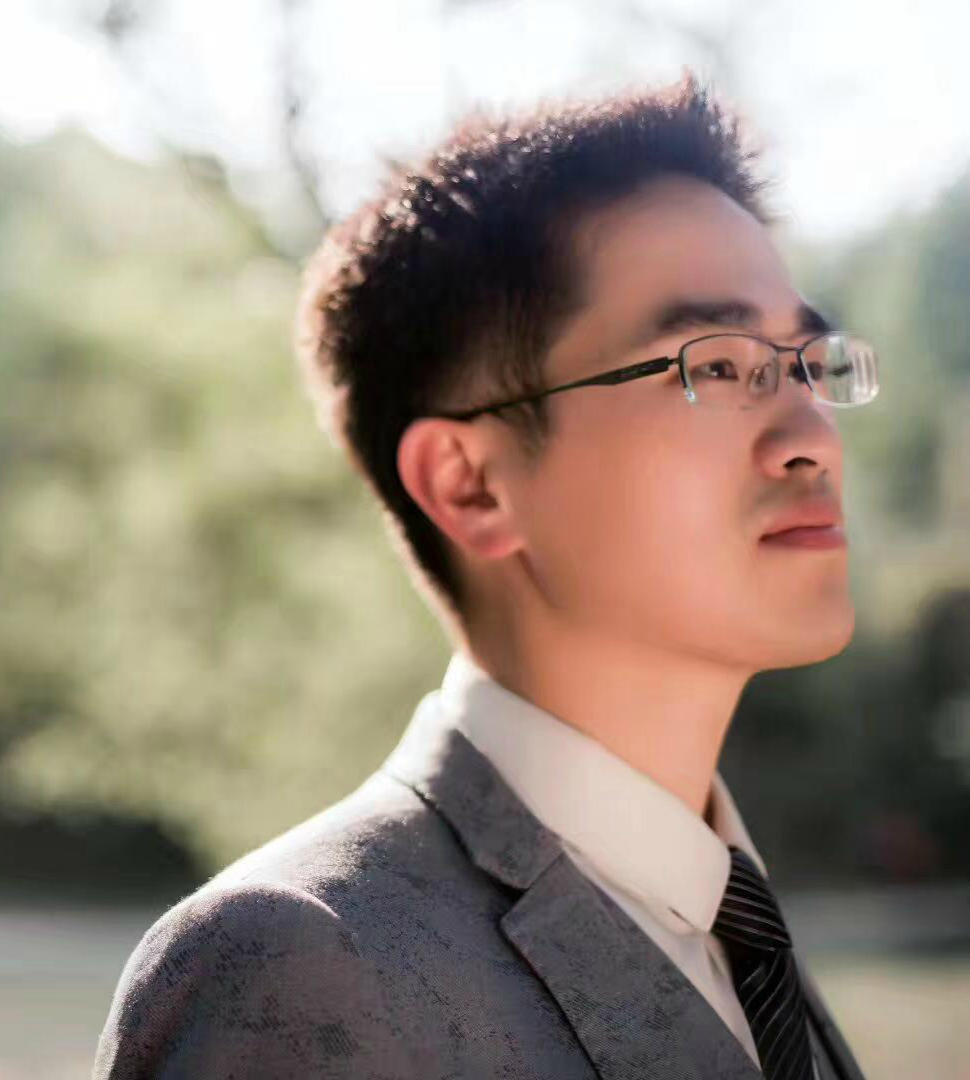
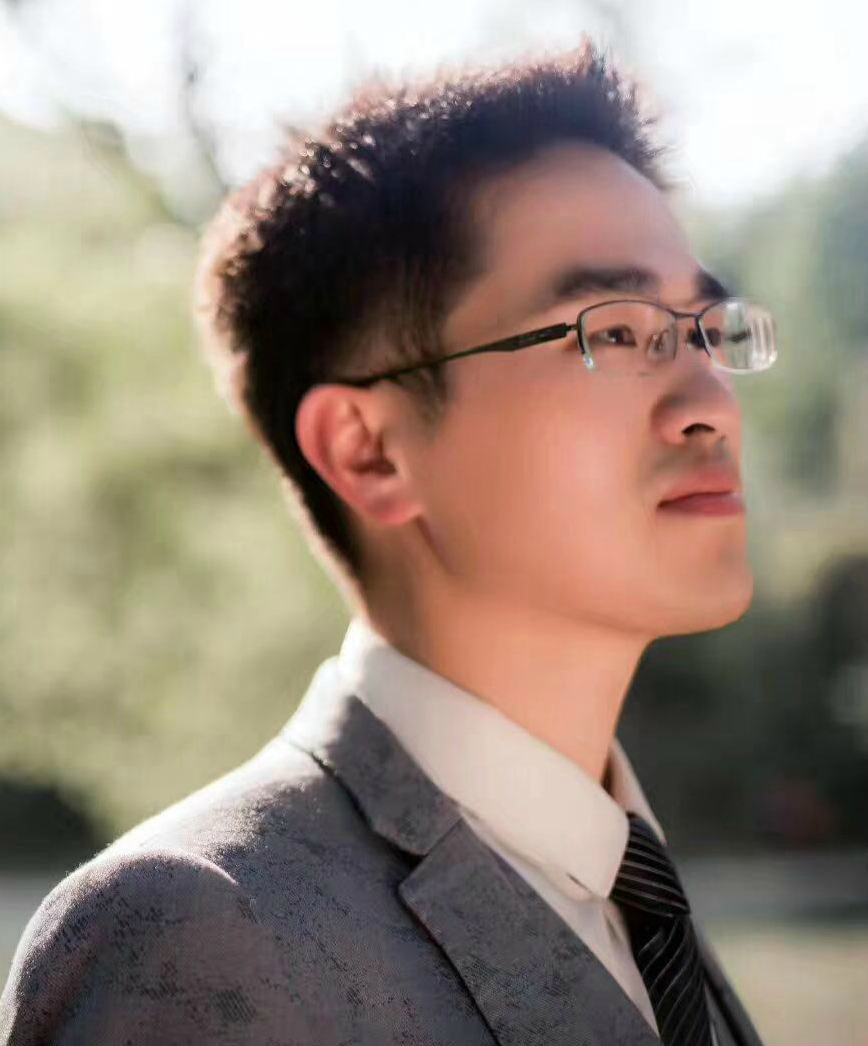
contact and photo

diff --git a/_site/index.html b/_site/index.html
@@ -297,6 +297,15 @@ the Master degree at 2015 from Zhejiang Sci-Tech Universitory, Hangzhou, China, 
   </li>
 </ul>
 
+<h1 id="contact">Contact</h1>
+<p><em>Address</em>: N4-B2C-06, Cyber Security Lab, <br />
+           
+School of Computer Science and Engineering, Nanyang Technological University<br />
+           
+50 Nanyang Avenue, Singapore 639798</p>
+
+<p><em>Email</em>: y.zhou AT ntu DOT edu DOT sg</p>
+
         
       </section>
 

diff --git a/_pages/about.md b/_pages/about.md
@@ -23,3 +23,15 @@ My research intertests focus on different topics related to motion control of mo
 - **Autonomous vehicles security**.
 
 - **Self-adaptive software systems for multi-robot systems**.
+
+
+
+Contact
+======
+*Address*: N4-B2C-06, Cyber Security Lab, \\
+&nbsp;&nbsp;&nbsp;&nbsp;&nbsp;&nbsp;&nbsp;&nbsp;&nbsp;&nbsp;&nbsp;
+School of Computer Science and Engineering, Nanyang Technological University\\
+&nbsp;&nbsp;&nbsp;&nbsp;&nbsp;&nbsp;&nbsp;&nbsp;&nbsp;&nbsp;&nbsp;
+50 Nanyang Avenue, Singapore 639798
+
+*Email*: y.zhou AT ntu DOT edu DOT sg
